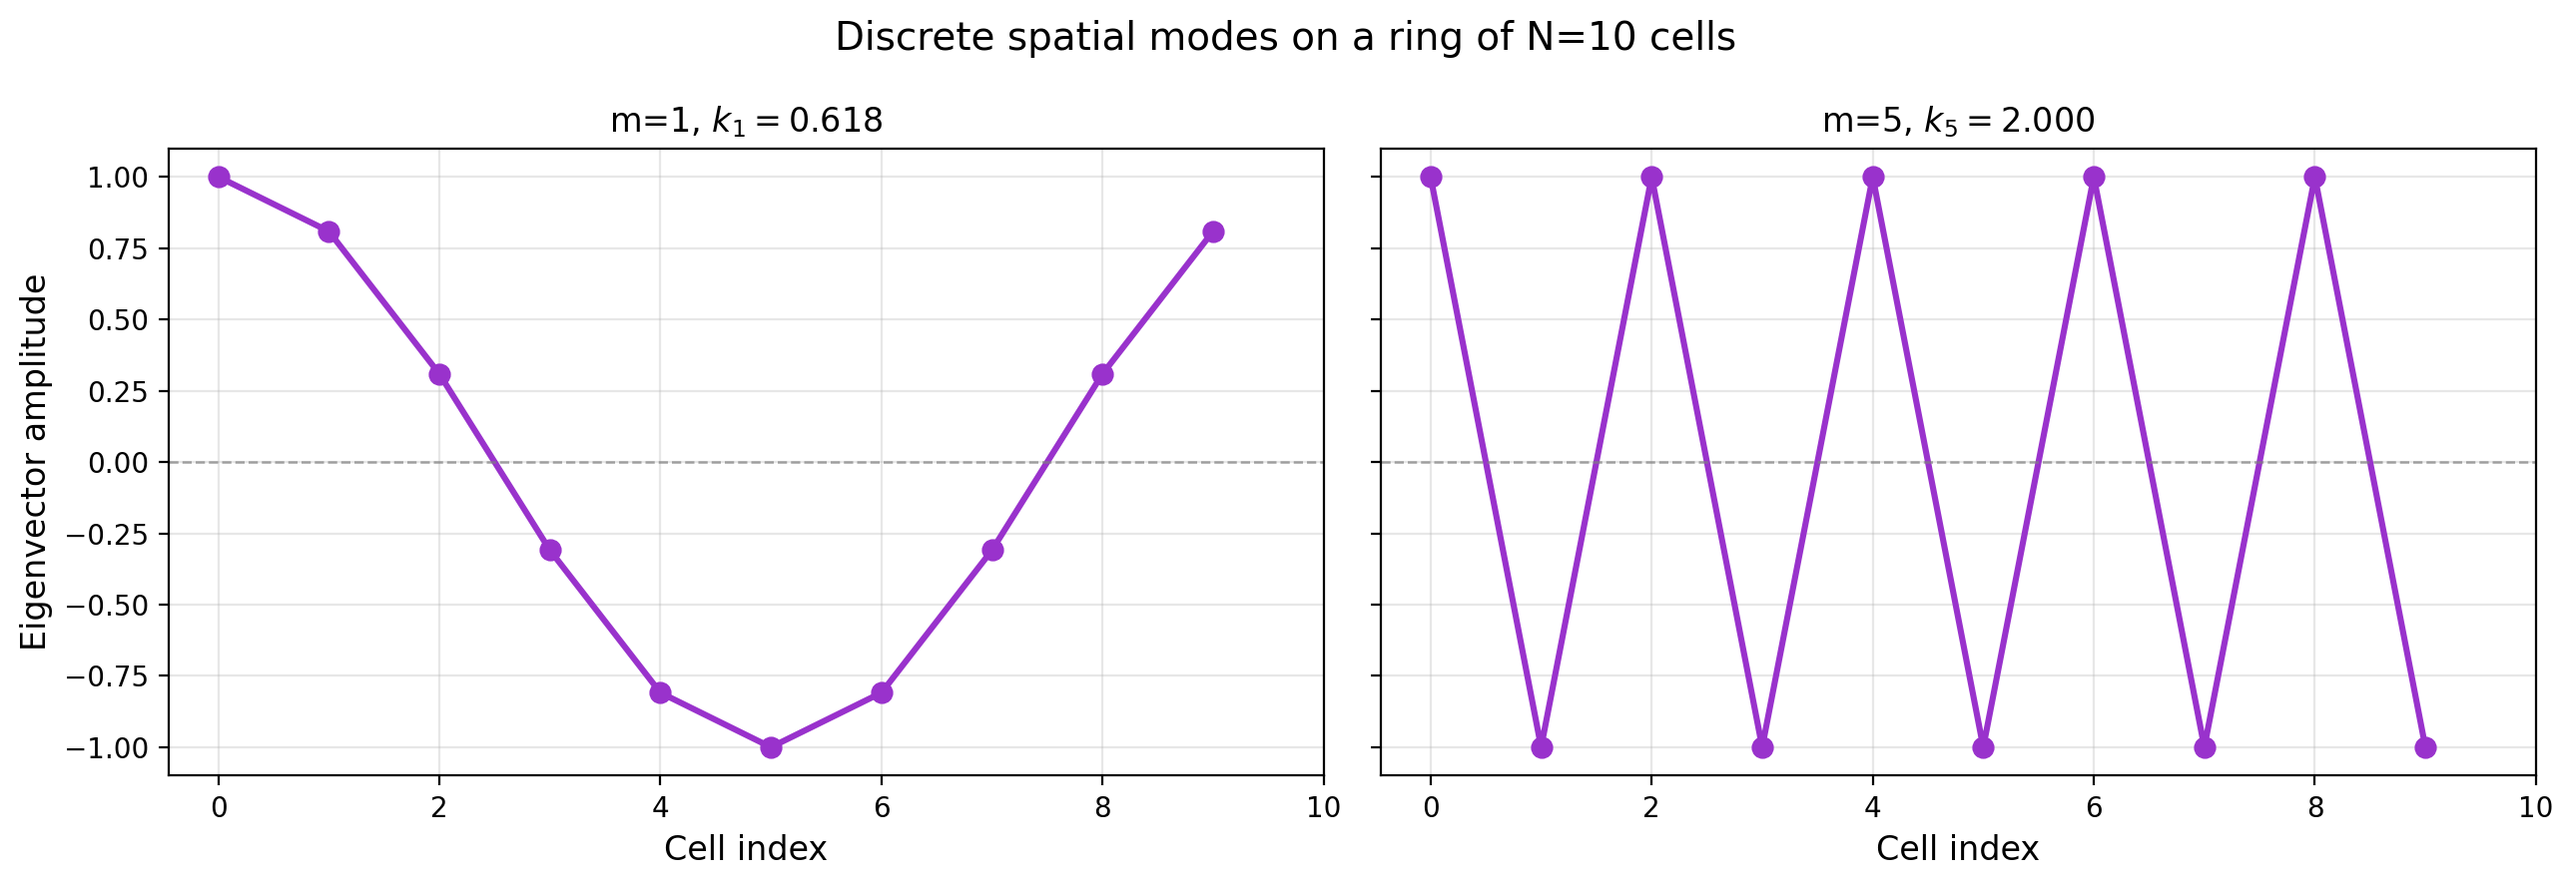
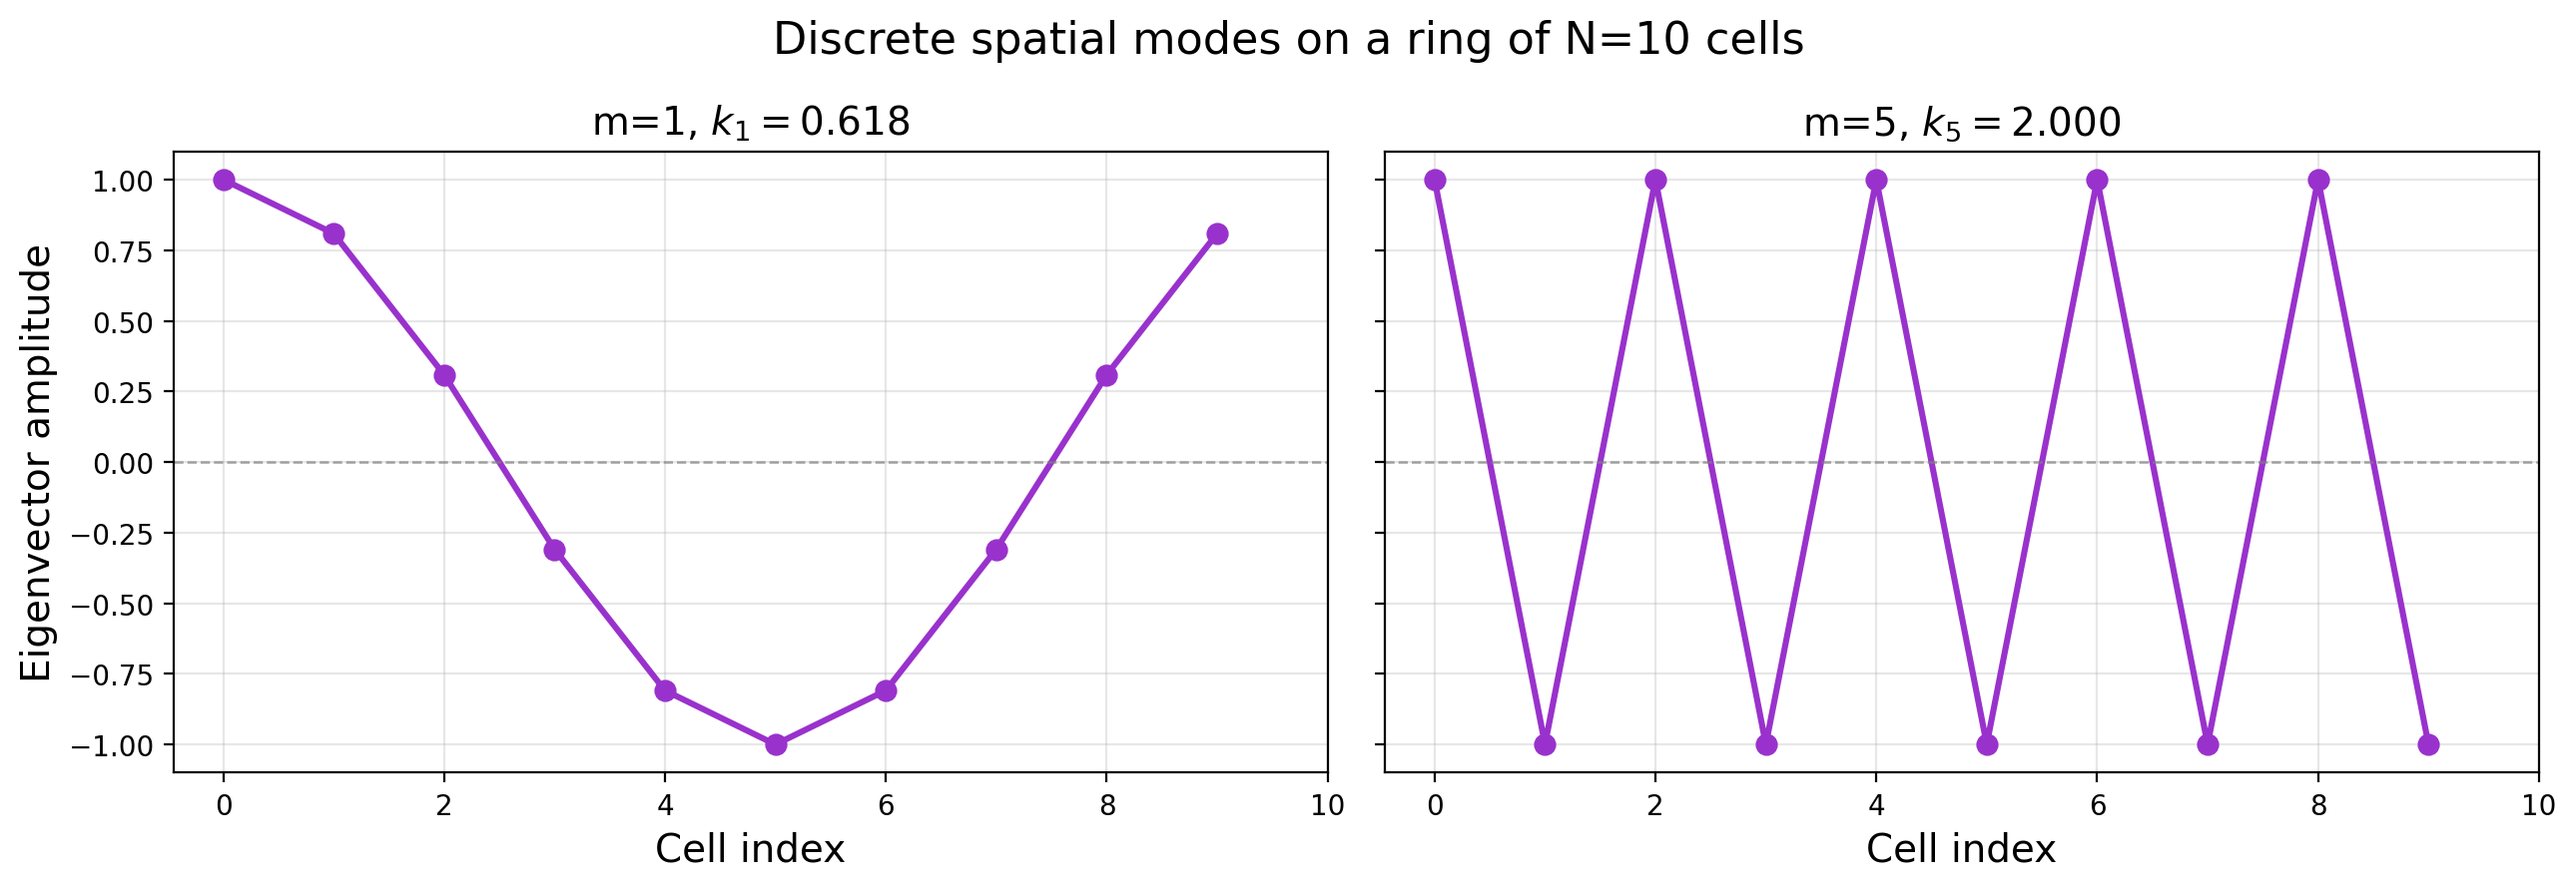
new plots

diff --git a/BiologicalRealism/plots_wetlab.py b/BiologicalRealism/plots_wetlab.py
@@ -45,8 +45,7 @@ def extract(cv):
     CV = np.array([r['CV'] for r in results])
     
     # Safely search for valid structural keys inside your pkl dictionary
-    dist_key = next((k for k in ('all_full', 'all_band', 'all_eigenvalues', 'allv')
-                     if k in results[0]), None)
+    dist_key = next((k for k in ('all_full', 'all_band', 'all_eigenvalues', 'allv') if k in results[0]), None)
                      
     if dist_key is None:
         print("Warning: Could not find eigenvalue array key in pkl results structure.")
@@ -78,17 +77,20 @@ for k in GRID:
 
 def desc(key):
     cid = data10[key]['config_id'] if key in data10 else '?'
-    return f"Topology #{key[0]} {key[1].capitalize()} (ID {cid})"
+    return f"Topology #{key[0]} (ID {cid})"
 
-# --- FIG GENERATION ---
-fig, axes = plt.subplots(1, 2, figsize=(12.8, 6), sharex=True)
+
+
+
+#### BOXPLOT 
+fig, axes = plt.subplots(1, 2, figsize=(12.8, 5.2), sharex=True)
 line_handle = None
 
 for i, (ax, key) in enumerate(zip(axes.flat, GRID)):
     # If a file is completely missing, display an empty placeholder box so layout stays intact
     if key not in data10:
         ax.text(0.5, 0.5, f"Data Missing:\n{CV_FILES[key].format(N=10)}", ha='center', va='center', color='gray')
-        panel_title(ax, LETTERS[i], f"{key[0]} {key[1]} (No Data)")
+        panel_title(ax, LETTERS[i], f"{key[0]} (No Data)")
         continue
         
     d = data10[key]
@@ -110,8 +112,8 @@ for i, (ax, key) in enumerate(zip(axes.flat, GRID)):
         
     ax.set_xticks(range(len(d['CV'])))
     ax.set_xticklabels([f'{c:.2f}' for c in d['CV']])
-    
     ax.yaxis.set_major_locator(mticker.MaxNLocator(nbins=8))
+    ax.set_ylim(top=2.4) if key == ('3954', 'lab_3') else ax.set_ylim(top=1.7)
     ax.grid(True, alpha=0.3, axis='y')
     panel_title(ax, LETTERS[i], desc(key))
 
@@ -119,20 +121,20 @@ for ax in axes:
     ax.set_ylabel(r'Ring growth rate max Re($\lambda$)', fontsize=14)
     ax.set_xlabel('CV (coefficient of variation)', fontsize=14)
 
-fig.suptitle('Distribution of ring growth rates under parameter heterogeneity (N = 10)', fontsize=16, y=0.96)
+fig.suptitle('Distribution of Growth Rates under Parameter Heterogeneity (N=10) for Wet-Lab Configurations', fontsize=16, y=0.92)
 
 if line_handle:
     fig.legend(handles=[line_handle], loc='lower center', bbox_to_anchor=(0.5, -0.01), frameon=False)
 
 fig.tight_layout(rect=[0, 0.05, 1, 0.93])
 fig.subplots_adjust(wspace=0.18)
-fig.savefig('thesis_wetlab.png', dpi=300, bbox_inches='tight')
+fig.savefig('thesis_wetlab_boxplot.png', dpi=300, bbox_inches='tight')
 plt.close(fig)
-print("Saved: thesis_wetlab.png")
+print("Saved: thesis_wetlab_boxplot.png")
 
 
 
-# --- FIG 4 GENERATION ---
+# FIG 4 GENERATION
 robust_data = {}
 for k in GRID:
     for N in N_SIZES:
@@ -143,7 +145,6 @@ for k in GRID:
 fig, axes = plt.subplots(1, 2, figsize=(12, 5), sharey=True)
 for i, (ax, topo) in enumerate(zip(axes, ['1754', '3954'])):
     
-    # ---> FIX: ONLY LOOP THROUGH THE ACTUAL CONFIGURATIONS MATCHING THIS TOPO <---
     for (g_topo, kind) in GRID:
         if g_topo != topo:
             continue  # Skip configurations that don't belong to this subplot panel
@@ -171,156 +172,3 @@ fig.tight_layout(rect=[0, 0, 1, 0.97])
 fig.savefig('thesis_wetlab_robustness.png', dpi=300, bbox_inches='tight')
 plt.close(fig)
 print("Saved: thesis_wetlab_robustness.png")
-
-
-
-
-
-
-
-
-PKLS = {
-    '#1754 (ID 40)': '1754_cv_sweep_wetlab_config40_N10.pkl',
-    #'1754 config 12': '1754_cv_sweep_low_config12_N10.pkl',
-    '#3954 (ID 40)': '3954_cv_sweep_wetlab_config40_N10.pkl',
-    #'3954 config 47': '3954_cv_sweep_low_config17_N10.pkl',
-}
-
-N_RING       = 10
-RINGS_PANEL  = 50
-CVS          = [0.1, 0.2, 0.3, 0.4]
-COLORS       = {0.1: 'steelblue', 0.2: 'deeppink', 0.3: 'darkorange', 0.4: 'forestgreen'}
-SEED         = 42
-
-nH = 2
-Ha  = lambda X, K: X**nH / (K**nH + X**nH)
-Hi  = lambda X, K: K**nH / (K**nH + X**nH)
-dHa = lambda x, K:  nH*K**nH*x**(nH-1) / (K**nH + x**nH)**2
-dHi = lambda x, K: -nH*K**nH*x**(nH-1) / (K**nH + x**nH)**2
-
-def ode_1754(s, p):
-    u, v, w = s
-    au, bu, Kvu, du = p[0:4]; av, bv, Kuv, Kwv, dv = p[4:9]
-    aw, bw, Kww, Kuw, Kvw, dw = p[9:15]
-    return np.array([au + bu*Hi(v, Kvu) - du*u, av + bv*Ha(u, Kuv)*Hi(w, Kwv) - dv*v, aw + bw*Ha(w, Kww)*Hi(u, Kuw)*Hi(v, Kvw) - dw*w])
-
-def jac_1754(s, p):
-    u, v, w = s
-    au, bu, Kvu, du = p[0:4]; av, bv, Kuv, Kwv, dv = p[4:9]
-    aw, bw, Kww, Kuw, Kvw, dw = p[9:15]
-    J = np.zeros((3, 3))
-    J[0, 0] = -du                       
-    J[0, 1] = bu*dHi(v, Kvu)
-    J[1, 0] = bv*dHa(u, Kuv)*Hi(w, Kwv); J[1, 1] = -dv
-    J[1, 2] = bv*Ha(u, Kuv)*dHi(w, Kwv)
-    J[2, 0] = bw*Ha(w, Kww)*dHi(u, Kuw)*Hi(v, Kvw)
-    J[2, 1] = bw*Ha(w, Kww)*Hi(u, Kuw)*dHi(v, Kvw)
-    J[2, 2] = bw*dHa(w, Kww)*Hi(u, Kuw)*Hi(v, Kvw) - dw
-    return J
-
-def ode_3954(s, p):
-    u, v, w = s
-    au, bu, Kuu, Kvu, du = p[0:5]; av, bv, Kuv, Kwv, dv = p[5:10]
-    aw, bw, Kww, Kuw, Kvw, dw = p[10:16]
-    return np.array([au + bu*Ha(u, Kuu)*Hi(v, Kvu) - du*u, av + bv*Ha(u, Kuv)*Hi(w, Kwv) - dv*v, aw + bw*Ha(w, Kww)*Hi(u, Kuw)*Hi(v, Kvw) - dw*w])
-
-def jac_3954(s, p):
-    u, v, w = s
-    au, bu, Kuu, Kvu, du = p[0:5]; av, bv, Kuv, Kwv, dv = p[5:10]
-    aw, bw, Kww, Kuw, Kvw, dw = p[10:16]
-    J = np.zeros((3, 3))
-    J[0, 0] = bu*dHa(u, Kuu)*Hi(v, Kvu) - du            # u self-activation
-    J[0, 1] = bu*Ha(u, Kuu)*dHi(v, Kvu)
-    J[1, 0] = bv*dHa(u, Kuv)*Hi(w, Kwv); J[1, 1] = -dv
-    J[1, 2] = bv*Ha(u, Kuv)*dHi(w, Kwv)
-    J[2, 0] = bw*Ha(w, Kww)*dHi(u, Kuw)*Hi(v, Kvw)
-    J[2, 1] = bw*Ha(w, Kww)*Hi(u, Kuw)*dHi(v, Kvw)
-    J[2, 2] = bw*dHa(w, Kww)*Hi(u, Kuw)*Hi(v, Kvw) - dw
-    return J
-
-def find_ss(ode, jac, p, guess, n_newton=80):
-    x = np.array(guess, float)
-    for _ in range(n_newton):
-        try:
-            dx = np.linalg.solve(jac(x, p), -ode(x, p))
-        except np.linalg.LinAlgError:
-            return None
-        x = x + dx
-        if np.max(np.abs(dx)) < 1e-12:
-            break
-    if np.max(np.abs(ode(x, p))) < 1e-8 and np.all(x > 0):
-        return x
-    return None
-
-def local_dispersion(J3, D, kgrid):
-    return np.array([np.max(np.real(np.linalg.eigvals(J3 - (k*k)*D))) for k in kgrid])
-
-def ring_curve(ode, jac, base, D, kgrid, CV, ss0, rng, N):
-    """One noisy ring's dispersion = MAX over its cells of the local dispersion
-    (the envelope / driver region). This tracks the full-ring max Re(lambda) -- the
-    box-plot value -- so the figure is consistent with the robustness plots. (Use
-    np.mean instead of np.max for the 'typical cell', which is more pessimistic.)"""
-    sg = np.sqrt(np.log(1 + CV**2)); mu = -sg**2/2
-    cells = []
-    for _ in range(N):
-        pi = base * rng.lognormal(mu, sg, len(base))
-        si = find_ss(ode, jac, pi, ss0)
-        if si is None:
-            return None
-        cells.append(local_dispersion(jac(si, pi), D, kgrid))
-    return np.max(cells, axis=0)
-
-M_VALUES = np.arange(0, N_RING // 2 + 1) # mode indices m = 0..N/2
-fig, axes = plt.subplots(len(PKLS), len(CVS), figsize=(12.8, 6.8), sharex=True, sharey='row')
-
-for row, (label, pkl) in enumerate(PKLS.items()):
-    d = pickle.load(open(pkl, 'rb'))
-    base = np.array(d['baseline_params'], float)
-    hp = d['hopping']; hv = np.array([hp['h_u'], hp['h_v'], hp['h_w']]); D = np.diag(hv)
-    ode, jac = (ode_1754, jac_1754) if len(base) == 15 else (ode_3954, jac_3954)
-
-    ss0 = None
-    for g in ([0.5, 0.15, 0.1], [1, 1, 1], [0.5, 0.5, 0.5], [0.2, 0.2, 0.2]):
-        ss0 = find_ss(ode, jac, base, g)
-        if ss0 is not None:
-            break
-    kd = 2*np.sin(np.pi*M_VALUES/N_RING) # the ONLY wavenumbers a ring of N cells can realise (m = 0..N/2)
-    disp0 = local_dispersion(jac(ss0, base), D, kd) # evaluated ONLY at those modes
-
-    for col, CV in enumerate(CVS):
-        ax = axes[row, col]
-        rng = np.random.default_rng(SEED); drawn = tries = 0
-        while drawn < RINGS_PANEL and tries < RINGS_PANEL*80:
-            tries += 1
-            c = ring_curve(ode, jac, base, D, kd, CV, ss0, rng, N_RING)   # discrete k only
-            if c is not None:
-                ax.plot(kd, c, 'o-', color=COLORS[CV], linewidth=1.2, markersize=5, alpha=0.4, zorder=3)
-                drawn += 1
-        ax.plot(kd, disp0, 'o-', color='black', linewidth=2.0, markersize=8, zorder=5)
-        ax.axhline(0, color='red', linestyle='--', linewidth=2.5, alpha=0.9)
-        ax.grid(alpha=0.3, linestyle='--')
-        if row == 0:
-            ax.set_title(f'CV = {CV:.2f}', fontsize=14)
-        if row == len(PKLS) - 1:
-            # thin out near-duplicate high-k modes so labels don't collide
-            keep = [i for i in range(len(kd)) if i != len(kd) - 2]
-            ax.set_xticks(kd[keep])
-            ax.set_xticklabels([f'$k_{{{M_VALUES[i]}}}$={kd[i]:.2f}' for i in keep], rotation=40, ha='right', fontsize=12)
-            ax.set_xlabel('Wavenumber $k_m$', fontsize=14)
-
-    axes[row, 0].set_ylabel(f'{label}\n' + r'Max Re($\lambda$)', fontsize=14)
-    axes[row, 0].yaxis.set_major_locator(MultipleLocator(0.15 if '3954' in label else 0.25))
-    for col in range(axes.shape[1]):
-        axes[row, col].tick_params(axis='y', labelsize=12)
-
-fig.align_ylabels(axes[:, 0])
-fig.subplots_adjust(left=0.09, right=0.96, top=0.83, bottom=0.18, wspace=0.07, hspace=0.06)
-fig.suptitle(f'Dispersion Relation under Parameter Noise (N={N_RING} cells, ' f'{RINGS_PANEL} trials)\n' f'Robust Topology #1754 vs Robust Topology #3954', fontsize=16, y=0.97)
-
-legend_handles = [
-    mlines.Line2D([], [], color='black', linewidth=2, marker='o', linestyle='-', label='Baseline (CV=0.0)'),
-    mlines.Line2D([], [], color='red', linewidth=2, linestyle='--', label='Turing Threshold'),
-]
-
-fig.legend(handles=legend_handles, loc='lower center', bbox_to_anchor=(0.5, -0.04), ncol=4, frameon=False, fontsize=14)
-fig.savefig('thesis_wetlab_dispersion.png', dpi=300, bbox_inches='tight')

diff --git a/BiologicalRealism/plotting_wavelength.py b/BiologicalRealism/plotting_wavelength.py
@@ -142,7 +142,7 @@ for category in categories:
         samples_per_category[category] = subset.sort_values('param_rank').head(N_SAMPLES_PER_TYPE)
 
 # PLOT
-fig, axes = plt.subplots(N_SAMPLES_PER_TYPE, len(categories),figsize=(12.8, 6.5))
+fig, axes = plt.subplots(N_SAMPLES_PER_TYPE, len(categories),figsize=(12.8, 6))
 
 for col_idx, category in enumerate(categories):
     samples = samples_per_category[category]
@@ -198,7 +198,7 @@ for col_idx, category in enumerate(categories):
         ax.set_title(title, fontsize=12)
         ax.grid(alpha=0.5)
 
-fig.suptitle('Dispersion Relations for Each Classified Turing Instability Type\n''Two random samples per group to verify sorting accuracy', fontsize=16, y=1.00)
+fig.suptitle('Dispersion Relations for Each Classified Turing Instability Type\n''Two random samples per group to verify sorting accuracy', fontsize=16, y=0.98)
 
 fig.subplots_adjust(left=0.06, right=0.96, top=0.88, bottom=0.08, 
     wspace=0,  # Close horizontal gap
@@ -207,5 +207,4 @@ fig.subplots_adjust(left=0.06, right=0.96, top=0.88, bottom=0.08,
 
 plt.tight_layout()
 plt.savefig('thesis_classifier_validation.png', dpi=300, bbox_inches='tight')
-print("\nSaved: thesis_classifier_validation.png")
 plt.close()

diff --git a/BiologicalRealism/sine_wave_mode.py b/BiologicalRealism/sine_wave_mode.py
@@ -17,17 +17,17 @@ fig, axes = plt.subplots(1, 2, figsize=(13, 4.5), sharey=True)
 ax = axes[0]
 ax.plot(cells, mode_1, 'o-', color='darkorchid', linewidth=2.2, markersize=7)
 ax.axhline(0, color='gray', linewidth=0.9, linestyle='--', alpha=0.7)
-ax.set_xlabel('Cell index', fontsize=12)
-ax.set_ylabel('Eigenvector amplitude', fontsize=12)
-ax.set_title(f'm=1, $k_1 = {k_1:.3f}$', fontsize=12)
+ax.set_xlabel('Cell index', fontsize=14)
+ax.set_ylabel('Eigenvector amplitude', fontsize=14)
+ax.set_title(f'm=1, $k_1 = {k_1:.3f}$', fontsize=14)
 ax.grid(alpha=0.3)
 ax.set_xticks(np.arange(0, N + 1, 2))
 
 ax = axes[1]
 ax.plot(cells, mode_5, 'o-', color='darkorchid', linewidth=2.2, markersize=7)
 ax.axhline(0, color='gray', linewidth=0.9, linestyle='--', alpha=0.7)
-ax.set_xlabel('Cell index', fontsize=12)
-ax.set_title(f'm=5, $k_5 = {k_5:.3f}$',fontsize=12)
+ax.set_xlabel('Cell index', fontsize=14)
+ax.set_title(f'm=5, $k_5 = {k_5:.3f}$',fontsize=14)
 ax.grid(alpha=0.3)
 ax.set_xticks(np.arange(0, N + 1, 2))
 
@@ -40,7 +40,7 @@ ax.set_xticks(np.arange(0, N + 1, 2))
 # 1. Add the main title
 fig.suptitle(
     f'Discrete spatial modes on a ring of N={N} cells', 
-    fontsize=14, 
+    fontsize=16, 
 )
 
 plt.tight_layout()
